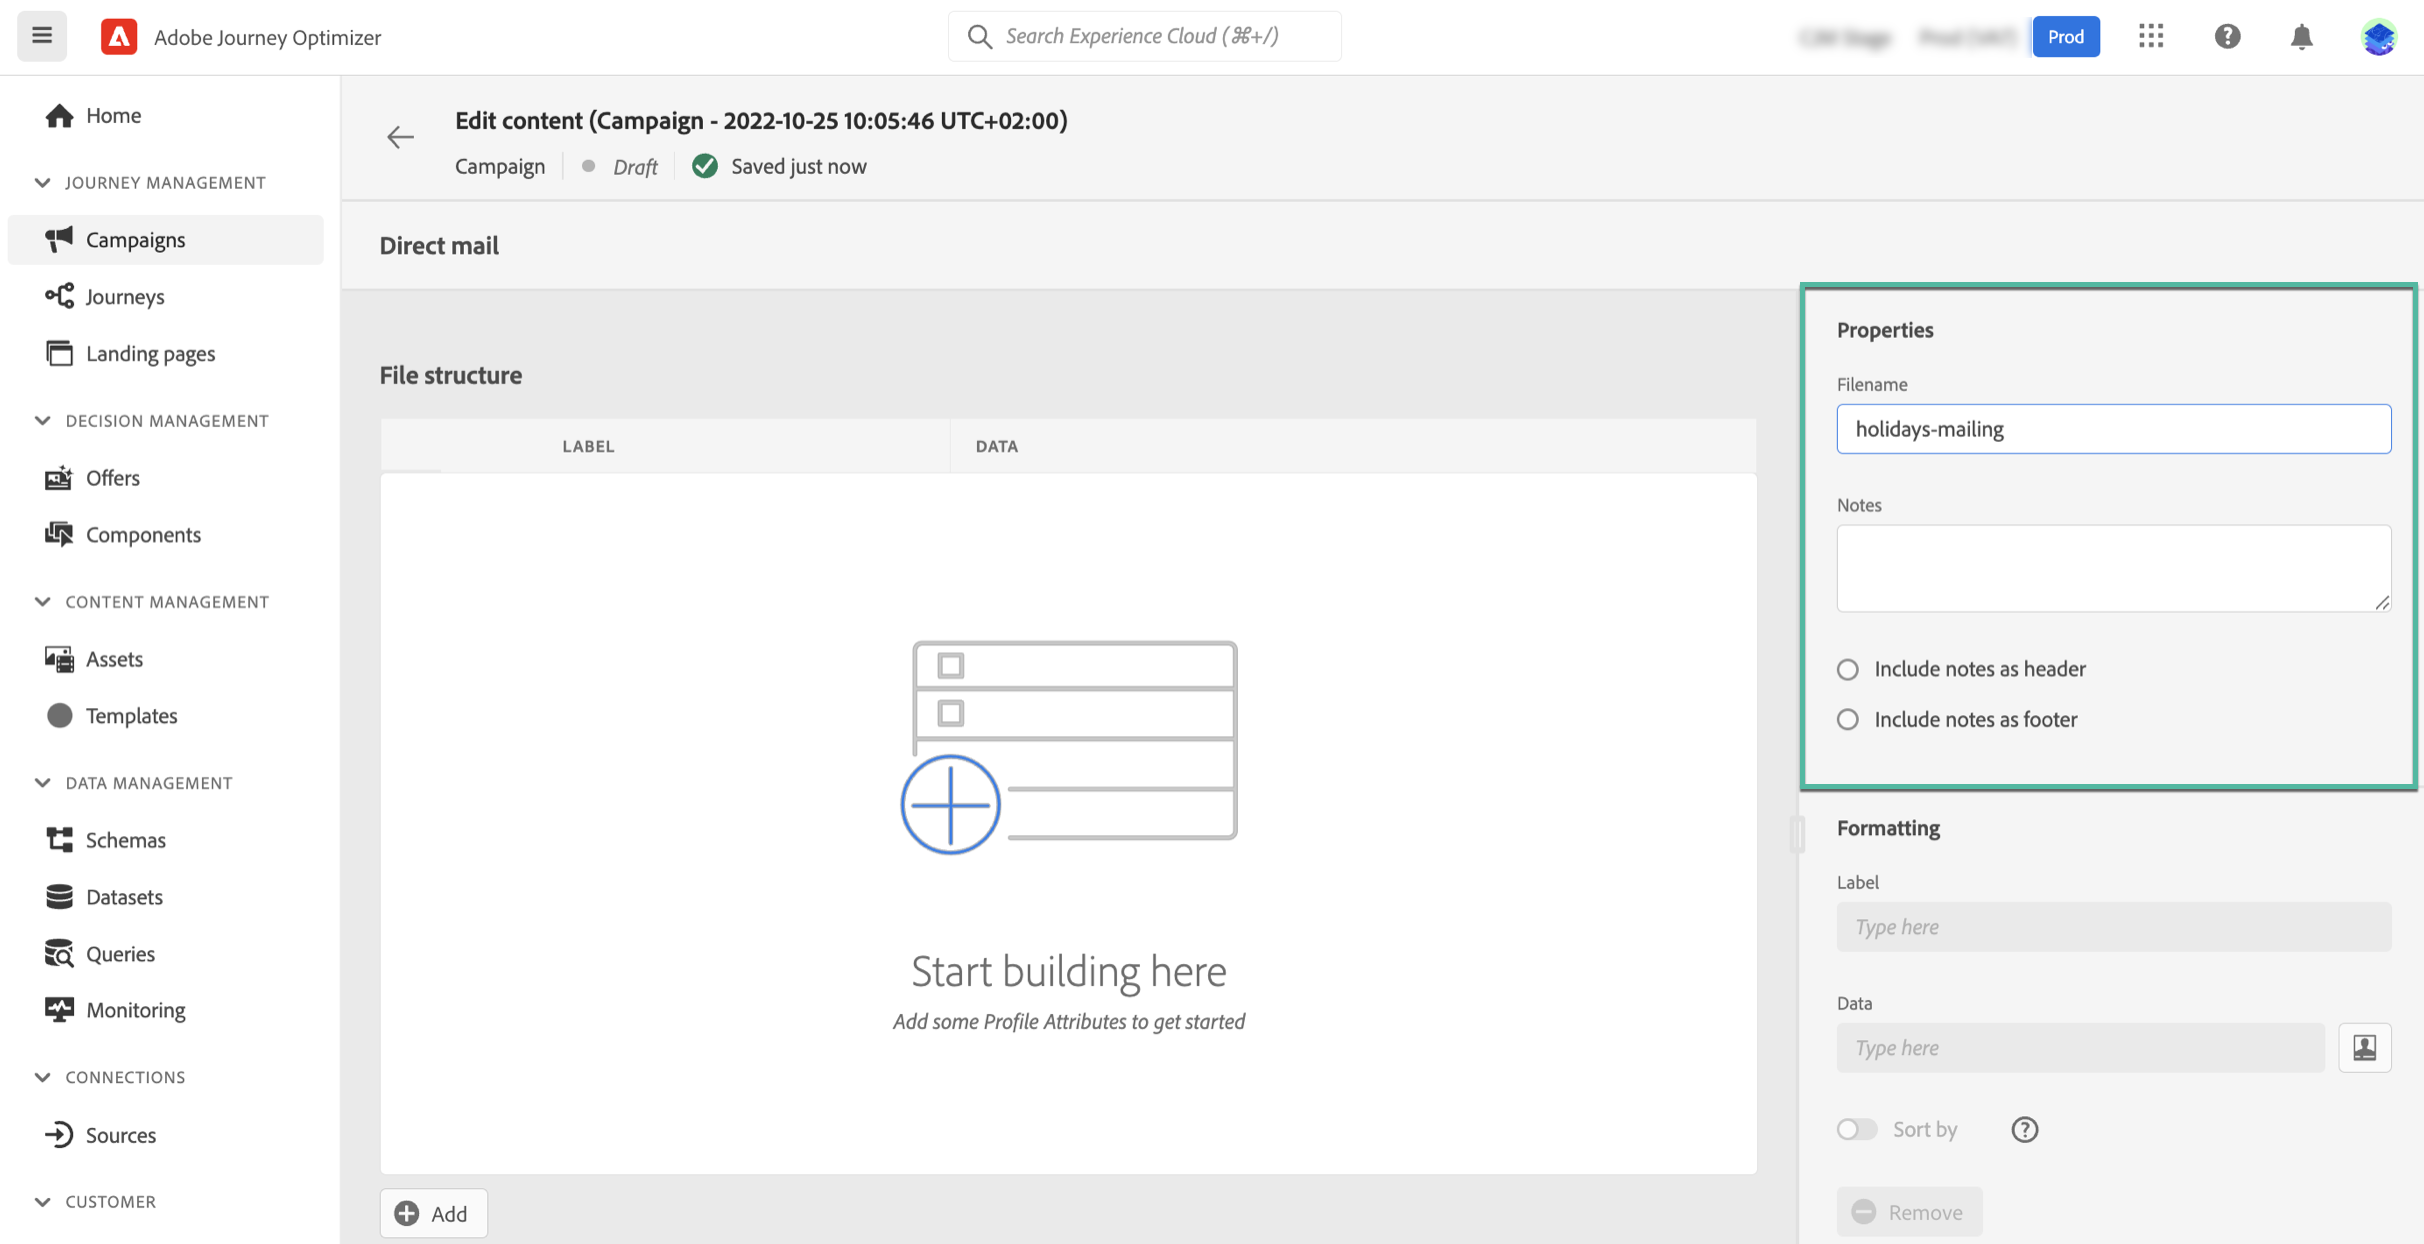
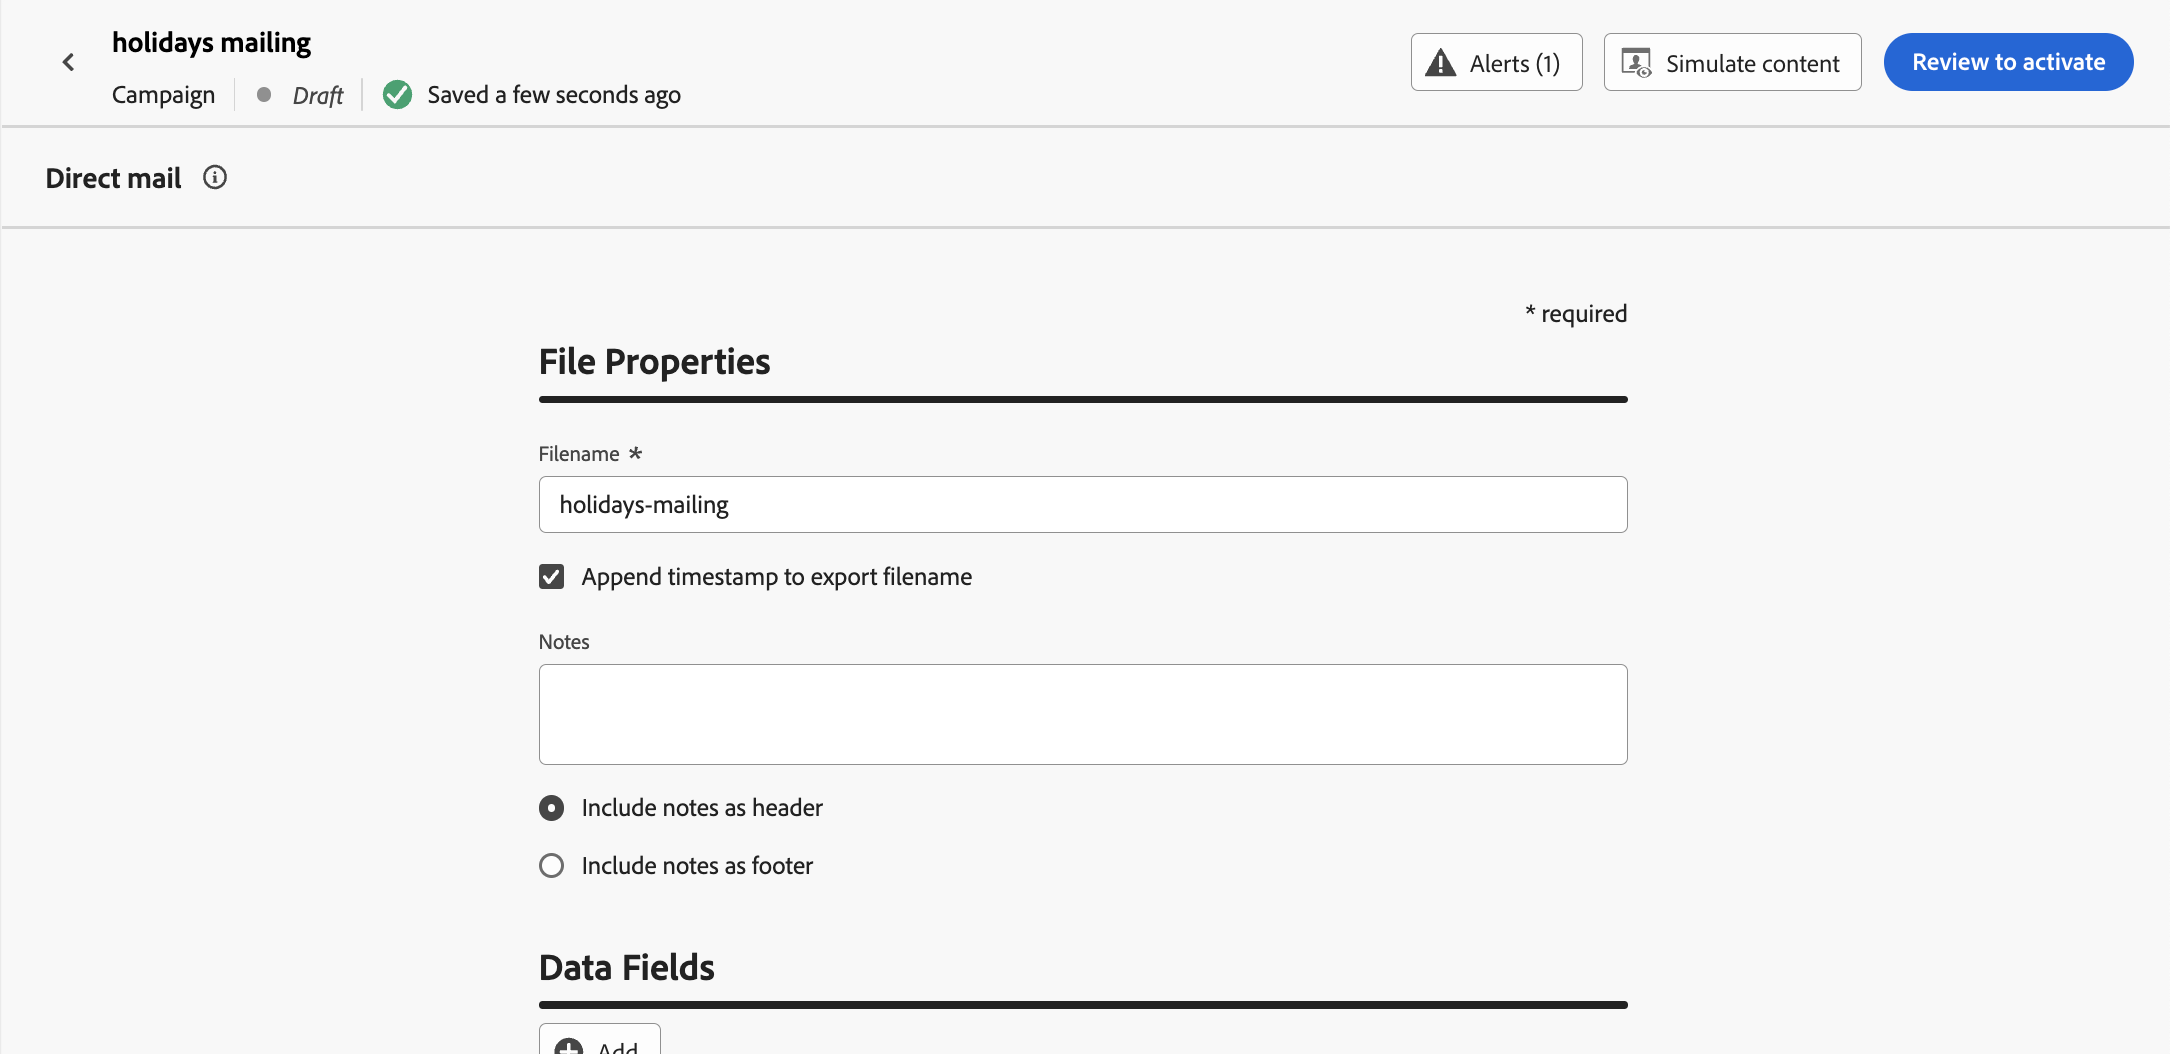
first draft dm

diff --git a/help/using/direct-mail/create-direct-mail.md b/help/using/direct-mail/create-direct-mail.md
@@ -37,28 +37,30 @@ You can now start configuring the extraction file to send to your direct mail pr
 
 1. From the campaign configuration screen, click the **[!UICONTROL Edit content]** button to configure the extraction file content.
 
-1. Define the name of the extraction file in the **[!UICONTROL Filename]** field.
+1. Configure the extraction file properties:
 
-   Sometimes you may need to add information at the beginning or at the end of the extraction file. To do this, use the **[!UICONTROL Notes]** field then specify if you want to include the note as a header or footer.
+   1. Define the name of the extraction file in in the **[!UICONTROL Filename]** field.
+   
+   1. Enable the **[!UICONTROL Append timestamp to export filename]** option if you want to automatically add a timestamp to the file name specified above.
 
-   <!--Click on the button to the right of the Output file field and enter the desired label. You can use personalization fields, content blocks and dynamic text (see Defining content). For example, you can complete the label with the delivery ID or the extraction date.-->
+   1. Sometimes you may need to add information at the beginning or at the end of the extraction file. To do this, use the **[!UICONTROL Notes]** field then specify if you want to include the note as header or footer.
 
-   ![](assets/direct-mail-properties.png)
+      ![](assets/direct-mail-properties.png)
 
-1. Use the left hand-side area to define the information to be displayed as columns into the extraction file:
+1. Configure the information to be displayed as columns into the extraction file:
 
-   1. Click the **[!UICONTROL Add]** button to add a new column, then select it from the list.
+   1. Click the **[!UICONTROL Add]** button to add a new column.
 
-   1. In the **[!UICONTROL Formatting]** section, specify a label for the column then define the profile attributes to display using the [Expression Editor](../personalization/personalization-build-expressions.md).
+   1. A **[!UICONTROL Formatting]** pane displays on the right-hand side, allowing you to configure the selected column. Specify a **[!UICONTROL Label]** for the column.
+   
+   1. In the **[!UICONTOL Data]** field, select the profile attributes to display using the [Expression Editor](../personalization/personalization-build-expressions.md).
+
+   1. To sort the extraction file using a column, select the column and toggle on the **[!UICONTROL Sort by]** option. The **[!UICONTROL Sort By]** icon displays next to the column's label in the **[!UICONTROL Data Fields]** section.
 
       ![](assets/direct-mail-content.png)
-      
-   1. To sort the extraction file using the selected column, toggle the **[!UICONTROL Sort by]** option on. The **[!UICONTROL Sort By]** icon will then display next to the column's label in the file structure.
 
-1. Repeat these steps to add as many columns as needed to build your extraction file. Note that you can add up to 50 columns.
+   1. Repeat these steps to add as many columns as needed to build your extraction file. Note that you can add up to 50 columns.
 
-   You can delete a column at any time by selecting it and clicking the **[!UICONTROL Remove]** button from the **[!UICONTROL Formatting]** section.
+      To change the position of a column, drag and drop it at the desired location in the **[!UICONTROL Data field]** section. To delete a column, select it and click the **[!UICONTROL Remove]** button in the **[!UICONTROL Formatting]** pane.
 
-   ![](assets/direct-mail-complete.png)
-
-You can now test your direct mail message and send it to your audience. [Learn more](test-send-direct-mail.md)
+You can now test your direct mail message and send it to your audience. [Learn how to test & send direct mail messages](test-send-direct-mail.md)

diff --git a/help/using/direct-mail/test-send-direct-mail.md b/help/using/direct-mail/test-send-direct-mail.md
@@ -11,30 +11,36 @@ keyword: direct, mail, configuration, direct-mail, provider
 
 ## Preview the extraction file {#preview-dm}
 
-Once the content of the extraction file has been defined, you can use test profiles to preview and test it. If you inserted personalized content, you can check how this content is displayed in the message, using test profile data.
+Once the content of the extraction file has been defined, you can use test profiles to preview it. If you inserted personalized content, you can check how this content is displayed in the message, using test profile data.
 
-1. Click **[!UICONTROL Simulate content]**.
+1. In the extraction file content configuration screen, click **[!UICONTROL Simulate content]**.
+
+      ![](assets/direct-mail-simulate-button.png)
 
 1. Click **[!UICONTROL Manage test profiles]** to add a test profile.
 
 1. Find your test profile with the **[!UICONTROL Identity namespace]** and **[!UICONTROL Identity value]** fields. Then, click **[!UICONTROL Add profile]**.
 
+      ![](assets/direct-mail-test-profile.png)
+
 1. Once you selected your test profile, you can close the **[!UICONTROL Add test profile]** window.
 
-1. From the **Preview & test** window, test profile data is added to the message content.
+1. From the **Preview & test** window, test profile data is added to the extraction file content, allowing you to preview how the file will render.
 
-## Validate your direct mail message {#dm-validate}
+    ![](assets/direct-mail-simulate.png)
 
-You must check alerts in the upper section of the editor. Some of them are simple warnings, but others can prevent you from sending the message. Two types of alerts can happen: warnings and errors.
+Once that the file content is ready to be sent, click **[!UICONTROL Review to activate]** button.
+
+## Validate & activate the direct mail campaign {#dm-validate}
+
+Before activating the direct mail campaign, make sure that the campaign and the extraction file are configured properly. To do this, check alerts in the upper section of the editor. Some of them are simple warnings, but others can prevent you from sending the message. Two types of alerts can happen: warnings and errors.
 
 * **Warnings** refer to recommendations and best practices. For example, a warning message is displayed if your SMS message is empty.
 
 * **Errors** prevent you from publishing the campaign, as long as they are not resolved. For example, an error message warns you when the subject line is missing.
 
-## Send your direct mail message {#dm-send}
+![](assets/direct-mail-review.png)
 
-When your direct mail message is ready, complete the configuration of your [campaign](../campaigns/create-campaign.md) to send it.
+When your direct mail campaign is ready, click the **[!UICONTROL Activate]** button. When the campaign starts, the extraction file will be automatically generated and exported to the server specified in your [file routing configuration](../direct-mail/direct-mail-configuration.md).
 
-When the campaign will start, the extraction file will be automatically generated and exported to the server specified in your [file routing configuration](../direct-mail/direct-mail-configuration.md).
-
-Once sent, you can measure the impact of your direct mail messages within the Campaign reports. For more on reporting, refer to this section.
+Once sent, you can measure the impact of your direct mail campaign within the Campaign reports. For more on reporting, refer to this section.

diff --git a/help/using/direct-mail/get-started-direct-mail.md b/help/using/direct-mail/get-started-direct-mail.md
@@ -13,6 +13,10 @@ Direct mail is an offline channel that allows you to personalize and generate th
 
 When you create a direct mail, Journey Optimizer generates a file including all the targeted profiles and the chosen data (postal address, profile attributes for example). Your direct mail provider will then be able to retrieve that file and will take care of the actual sending.
 
+The main steps to send direct mail messages are as follows:
+
+![](assets/dm-creation-process.png)
+
 Direct mail messages can only be created in the context of scheduled campaigns. They are not available for use in API-triggered campaigns or in journeys.
 
 >[!IMPORTANT]
